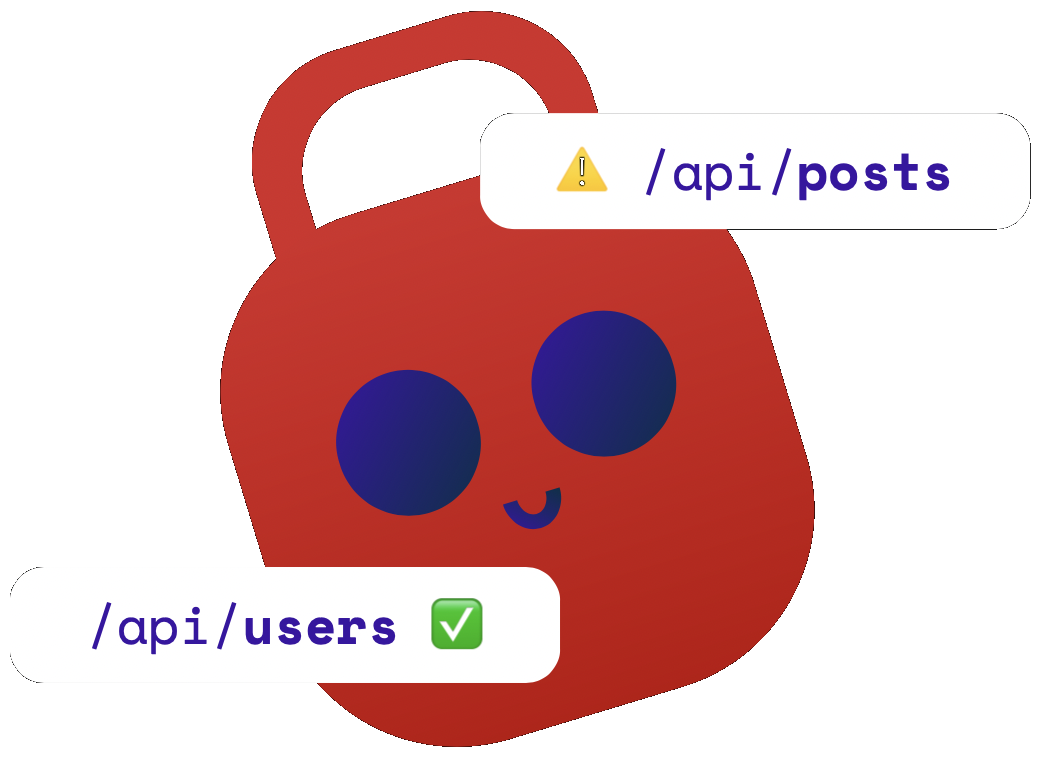
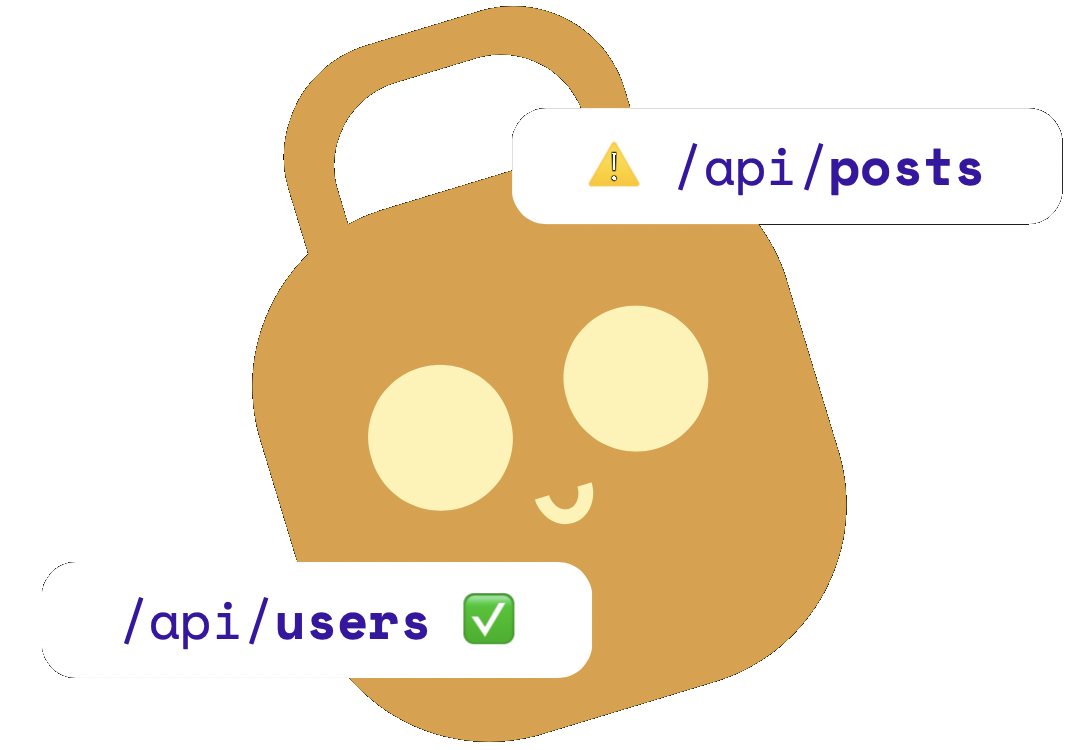
revamped unlockapi page, also very minor footer change (might add smth there soon)

diff --git a/openterminal/pages/unlockapi/index.js b/openterminal/pages/unlockapi/index.js
@@ -18,7 +18,7 @@ export default function FirstPost() {
               <h1 style={{fontSize: '60px'}}>Ensure your APIs are reliable.</h1>
   <div style={{flexDirection: 'row'}}>
   <Link href="">
-  <a className="padding" style={{width: '100%'}}>Authorize now</a>
+  <a className="padding" style={{width: '100%'}}>Set up now</a>
   </Link>
 
   <Link href="">
@@ -29,7 +29,7 @@ export default function FirstPost() {
   </div>
             <Image
                     src="/pics/unlockapi/mascot1.png"
-                    width='750px'
+                    width='800px'
                     height='550px'
                   />
             </div>

diff --git a/openterminal/pages/dashboard.js b/openterminal/pages/dashboard.js
@@ -12,7 +12,7 @@ export default function SignIn() {
       <div className="hometop">
         <h3 style={{fontSize: '40px'}}>{session.user.name}</h3>
         <p>{session.user.email}</p>
-        <Link href="/dashboard"><a><Image src={session.user.image} /></a></Link>
+        <Link href="/dashboard"><a><Image src={session.user.image()} /></a></Link>
         </div>
       </Layout>
     </>

diff --git a/openterminal/components/footer.js b/openterminal/components/footer.js
@@ -74,6 +74,9 @@ export default function Footer() {
             </p>
           </div>
         </div>
+        <div style={{ flexDirection: "row", marginLeft: 'auto' }}>
+        <h2 style={{fontWeight: '300'}}>OT</h2>
+  </div>
       </div>
       <hr style={{ backgroundColor: "rgb(110, 110, 110)" }} />
       <div style={{ display: "flex", marginTop: "-5px" }}>
